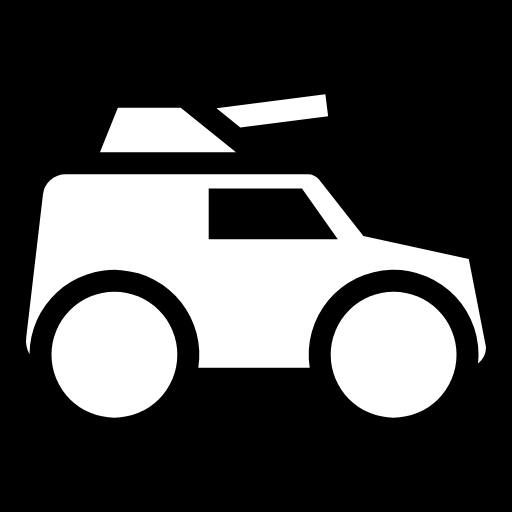
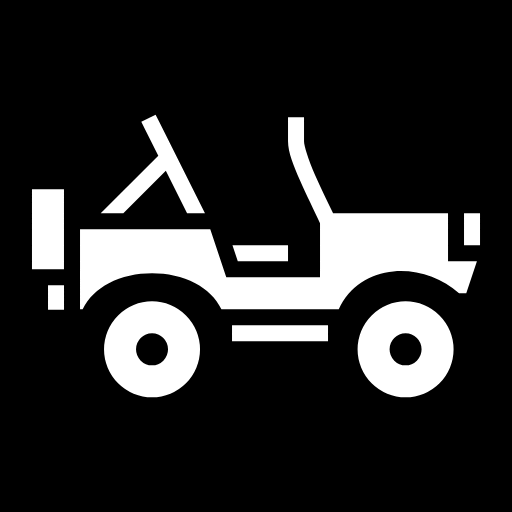
feat: new graphics

Changed region(s): [[0.0312, 0.1875, 0.9688, 0.8438], [0.5938, 0.3438, 0.875, 0.5312], [0.75, 0.625, 0.8438, 0.7188]]

diff --git a/README.md b/README.md
@@ -44,6 +44,8 @@ This Changelog will be periodically updated to reflect the latest version of FVT
 
 | Tagged Version | Foundry Compatibility | Notes |
 |----------------|-----------------------|--------------------------|
+| v3.3.0         | FVTT v12 Build 331    | add new graphics, fix redundency in graphics |
+| v3.2.0         | FVTT v12 Build 331    | add new graphics         |
 | v3.1.0         | FVTT v12 Build 331    |  item quantity now effects weight |
 | v3.0.1         | FVTT v12 Build 331    |  add new graphics        |
 | v3.0.0         | FVTT v12 Build 331    |  upgrade to Foundry v12  |
